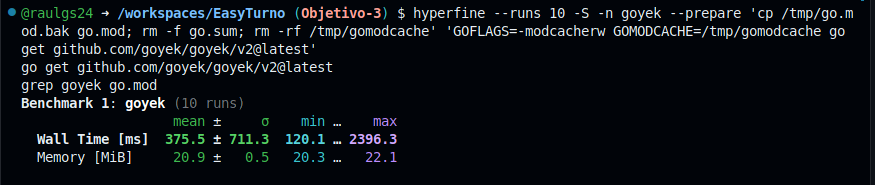
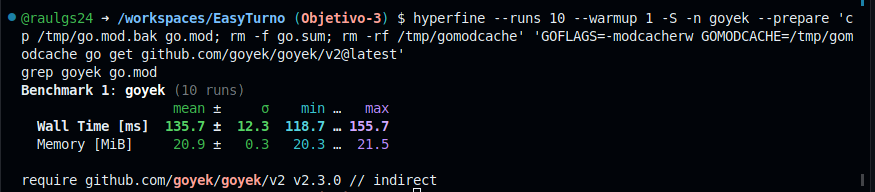
refs #14 Arreglo del eleccion-gestores con las nuevas medidas y en el readme, arreglo de instalacion de goyek

diff --git a/docs/Objetivo-3/eleccion-gestores.md b/docs/Objetivo-3/eleccion-gestores.md
@@ -10,38 +10,33 @@ EN Go las opciones son Go Modules, [dep](https://github.com/golang/dep), [Glide]
 - Tiempo que añade el gestor al ejecutar check, la diferencia entre la media de `<gestor> check` y la de go build ./... lanzado directamente. Lo mido porque check se lanzará en cada cambio.
 
 ### Opciones
-Las medidas están hechas en un Github Codespace. Como referencia, go build ./... sin gestor tarda de media 48.3 ms.
+Las medidas están hechas en un Github Codespace. Para check, todos los gestores se miden en una misma ejecución de hyperfine junto a go build ./... que sirve de referencia (45.7ms)
 
-![go build sin gestor](../img/Objetivo-3/referencia-go-build.png)
+![check con cada gestor](../img/Objetivo-3/check-gestores.png)
 
 Como opciones tenemos: make, Task, just, Mage y goyek
 
-- **[make](https://www.gnu.org/software/make/)** (`Makefile`): descargar y descomprimir el paquete en mi espacio tarda 1.51s de media,  make check tarda 49.7ms frente a 48.3 ms de go build ./... . No añade tiempo apreciable
+- **[make](https://www.gnu.org/software/make/)** (`Makefile`): descargo su paquete de ubuntu y extraigo el binario a mi espacio de usuario con una media de 0.23s, make check tarda de media 45.8ms. No añade tiempo razonable 
 
   ![Instalación de make](../img/Objetivo-3/make-instalacion.png)
-  ![make check](../img/Objetivo-3/make-check.png)
 
-- **[Task](https://github.com/go-task/task)** (`Taskfile.yml`): su script oficial, que descarga el binario, lo instala en mi espacio en 1.13s de media, task check tarda unos 116.8 ms de media frente a los 48.3ms de go build ./... . Por lo que añade un tiempo considerable
+- **[Task](https://github.com/go-task/task)** (`Taskfile.yml`): con una única orden descargo el binario de su release a mi espacio de usuario en 0.56s de media, task check tarda 110.1 ms de media. Por lo que añade un tiempo considerable
 Se puede descargar también con go install, pero tarda mucho más. 
 
   ![Instalación de task](../img/Objetivo-3/task-instalacion.png)
-  ![task check](../img/Objetivo-3/task-check.png)
 
--  **[just](https://github.com/casey/just)** (`justfile`): su script oficial que descarga el binario lo instala en mi espacio de usuario de media en 0.66s. just check tarda 52.5ms frente a los 48.3ms de go build ./...
-No añade tiempo apreciable
+-  **[just](https://github.com/casey/just)** (`justfile`): con una única orden descargo el binario de su release a mi espacio de usuario en 0.16s. just check tarda 47.7ms. No añade tiempo apreciable
+
   ![Instalación de just](../img/Objetivo-3/just-instalacion.png)
-  ![just check](../img/Objetivo-3/just-check.png)
 
-- **[Mage](https://github.com/magefile/mage)** (`magefile.go`): descargar el binario de sus releases a mi espacio tarda de media 0.16s. mage check tarda 133.4ms de media, mucho más que go build ./...
+- **[Mage](https://github.com/magefile/mage)** (`magefile.go`): descargar el binario de sus releases a mi espacio tarda de media 0.15s. mage check tarda 128ms de media. Añade un tiempo considerable.
 También se puede instalar con go install pero tardaría mucho más
 
   ![Instalación de Mage](../img/Objetivo-3/mage-instalacion.png)
-  ![mage check](../img/Objetivo-3/mage-check.png)
 
-- **[goyek](https://github.com/goyek/goyek)** (biblioteca de Go): no se instala como programa, se añade con `go get`: que con la caché de módulos vacía tarda de media 0.16s, go run ./build check tarda 122.7ms, mucho más que con go build ./...
+- **[goyek](https://github.com/goyek/goyek)** (biblioteca de Go): no se instala como programa, se añade con `go get`: que con la caché de módulos vacía tarda de media 0.14s, go run ./build check tarda 118.8ms, mucho más que con go build ./...
   
   ![Instalación de goyek](../img/Objetivo-3/goyek-instalacion.png)
-  ![goyek check](../img/Objetivo-3/goyek-check.png)
 
 ### Decisión
-make y just son los únicos que no añaden un tiempo apreciable a check; Task, Mage y goyek añaden tiempo extra en cada ejecución. Entre make y just, just se instala de media en 0.66s frente a 1.51s de make, por lo que elijo just.
+make y just son los únicos que no añaden un tiempo apreciable a check; Task, Mage y goyek añaden tiempo extra en cada ejecución. Entre make y just, just se instala de media en 0.16s frente a 0.23s de make. Como la instalación se repetirá en cada construcción del contenedor y en cada ejecución de la CI, por lo que elijo just.

diff --git a/README.md b/README.md
@@ -24,8 +24,9 @@ Hay que resolver un problema con una serie de restricciones, las cuales son
 
 Hace falta Go en la versión indicada en `go.mod` (Go 1.27.2) y just que se instala en el espacio de usuario con:
 
-curl --proto '=https' --tlsv1.2 -sSf https://just.systems/install.sh | bash -s -- --to ~/.local/bin
-
+mkdir -p ~/.local/bin
+curl -sL https://github.com/casey/just/releases/download/1.59.0/just-1.59.0-x86_64-unknown-linux-musl.tar.gz | tar -xz -C ~/.local/bin just
+export PATH="$HOME/.local/bin:$PATH"
 
     * `just install` Descarga módulos declarados en el `go.mod`
     * `just check` Comprueba que el código de internal/easyturno compila.
